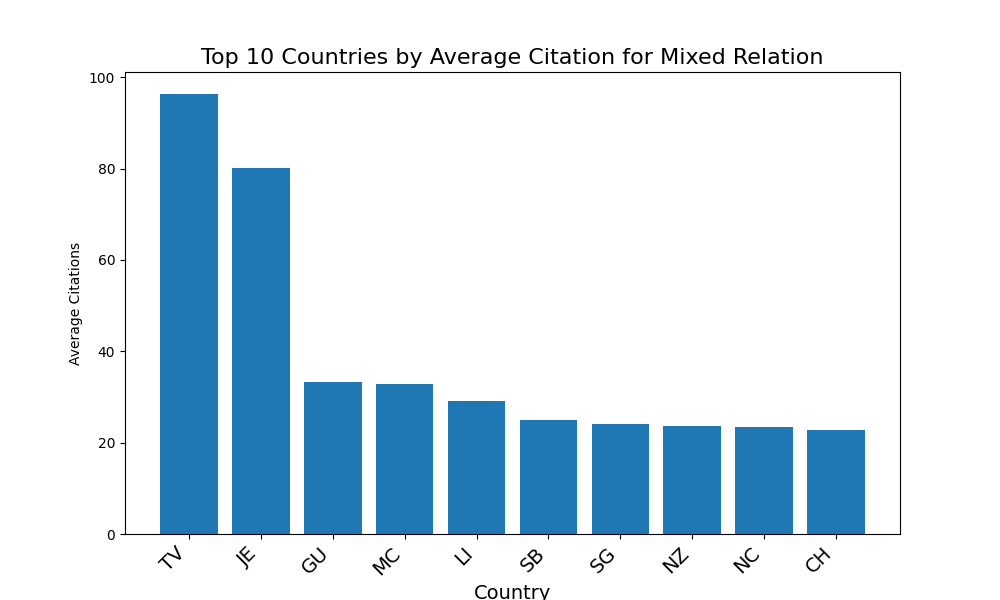
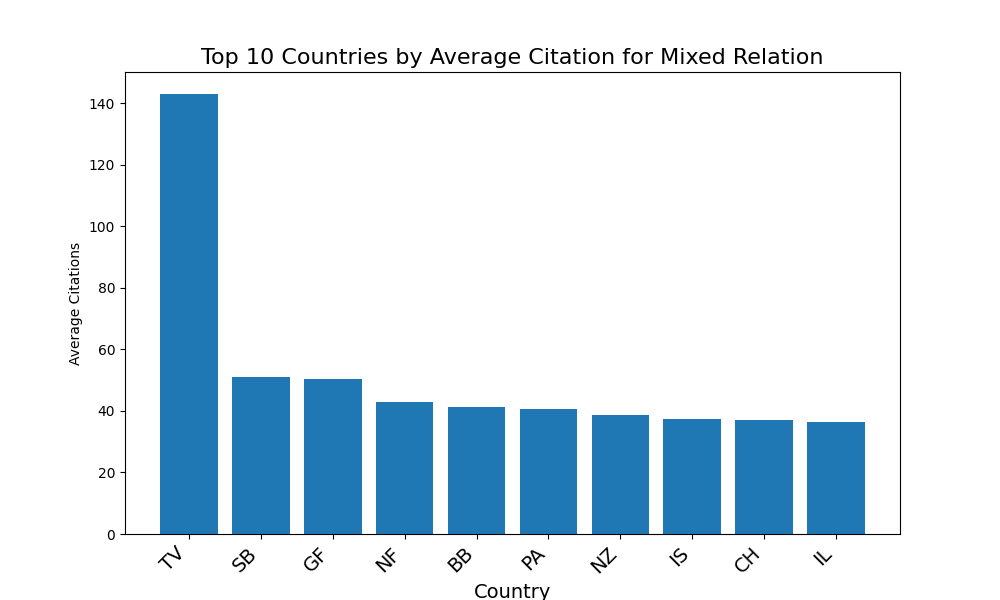
new tests

diff --git a/paper2.py b/paper2.py
@@ -234,12 +234,14 @@ result_by_collaborators = {
     "non_retracted_count": [],
     "percentage_retracted": [],
 }
+collaborators_citations = defaultdict(list)
 total_by_type = defaultdict(int)
 
 # Iterate through the DataFrame rows with tqdm
 for row in tqdm(new_df.itertuples(), total=len(new_df), desc="Counting Collaborators"):
     countries = literal_eval(row.countries)
     is_retracted = row.is_retracted
+    citations = row.citations
 
     # Count the number of collaborators
     num_collaborators = len(countries)
@@ -255,6 +257,14 @@ for row in tqdm(new_df.itertuples(), total=len(new_df), desc="Counting Collabora
         result_by_collaborators["retracted_count"][index] += 1
     else:
         result_by_collaborators["non_retracted_count"][index] += 1
+    collaborators_citations[num_collaborators].append(citations)
+
+# Calculate mean citations by the number of collaborators
+mean_citations_by_collaborators = {}
+for num_collaborators, citations_list in collaborators_citations.items():
+    mean_citations_by_collaborators[num_collaborators] = sum(citations_list) / len(
+        citations_list
+    )
 
 # Filter data for collaborators up to 20
 filter_limit = 20
@@ -303,6 +313,25 @@ with open("results/correlation_results_for_collaborators.txt", "w") as f:
         f"{correlation_method} Correlation: r({len(df_filtered) - 2}) = {corr:.3f}, p = {p_value:.3f}\n"
     )
 
+
+mean_citations_df = pd.DataFrame(
+    mean_citations_by_collaborators.items(), columns=["Collaborators", "Mean_Citations"]
+)
+
+pearson_corr, pearson_p_value = stats.pearsonr(
+    mean_citations_df["Collaborators"], mean_citations_df["Mean_Citations"]
+)
+spearman_corr, spearman_p_value = stats.spearmanr(
+    mean_citations_df["Collaborators"], mean_citations_df["Mean_Citations"]
+)
+
+# Save results to a text file
+with open("results/citations_by_number_of_participants.txt", "w") as f:
+    f.write("Pearson correlation coefficient: {}\n".format(pearson_corr))
+    f.write("Pearson p-value: {}\n\n".format(pearson_p_value))
+    f.write("Spearman correlation coefficient: {}\n".format(spearman_corr))
+    f.write("Spearman p-value: {}\n".format(spearman_p_value))
+
 df_filtered = df_filtered[df_filtered["collaborators"] <= filter_limit]
 
 # Plotting
@@ -313,7 +342,9 @@ plt.title(
 )
 plt.xlabel("Number of Collaborators", fontsize=14)
 plt.ylabel("Percentage of Retraction", fontsize=14)
-plt.xticks(range(1, filter_limit + 1), fontsize=14)  # Set x-axis ticks to integer values
+plt.xticks(
+    range(1, filter_limit + 1), fontsize=14
+)  # Set x-axis ticks to integer values
 plt.grid(True)
 plt.savefig(f"results/lineplot_correlation_collaborators_retraction.png")
 plt.close()
@@ -416,7 +447,9 @@ for relation in new_df["relation"].unique():
     )
     plt.xlabel("Number of Collaborators", fontsize=14)
     plt.ylabel("Percentage of Retraction", fontsize=14)
-    plt.xticks(range(1, filter_limit + 1), fontsize=14)  # Set x-axis ticks to integer values
+    plt.xticks(
+        range(1, filter_limit + 1), fontsize=14
+    )  # Set x-axis ticks to integer values
     plt.grid(True)
     plt.savefig(f"results/lineplot_correlation_collaborators_retraction_{relation}.png")
     plt.close()
@@ -534,6 +567,22 @@ plt.close()
 bins = [0, 0.549, 0.699, 0.799, 1.0]
 labels = ["Low", "Medium", "High", "Very High"]
 new_df["hdi_class"] = pd.cut(new_df["mean_hdi"], bins=bins, labels=labels, right=False)
+
+hdi_row_counts = new_df.groupby("mean_hdi").size()
+
+# Calculate Pearson correlation coefficient
+pearson_corr, pearson_p_value = stats.spearmanr(
+    hdi_row_counts.index, hdi_row_counts.values
+)
+
+# Print correlation coefficient and p-value
+print("Spearman correlation coefficient:", pearson_corr)
+print("Spearman p-value:", pearson_p_value)
+
+# Save results to a text file
+with open("results/correlation_mean_hdi_row_counts.txt", "w") as f:
+    f.write("Pearson correlation coefficient: {}\n".format(pearson_corr))
+    f.write("Pearson p-value: {}\n".format(pearson_p_value))
 
 # Calculate average citations for each 'hdi_class' and 'relation'
 avg_citations = (
@@ -875,14 +924,14 @@ plt.legend(title="Relation", loc="upper right")
 plt.savefig("results/barplot_institution_type_per_relation.png")
 plt.close()"""
 
-mixed_df = new_df[new_df["relation"] == "Other Countries"]
+mixed_df = new_df[new_df["relation"] == "Mixed"]
 
 country_counts = {}
 country_citations = {}
 for row in tqdm(
     mixed_df.itertuples(),
     total=len(mixed_df),
-    desc="Counting Countries for Other Countries Relation",
+    desc="Counting Countries for Mixed Relation",
 ):
     countries = set(literal_eval(row.countries))
     for country in countries:

diff --git a/temporal.py b/temporal.py
@@ -171,7 +171,7 @@ ax.set_title(f"Number of collaborations between Other Countries")
 plt.savefig(f"results/map_number_of_collaborations_other_countries.png")
 plt.show()
 plt.close()"""
-
+"""
 concept_colors = {
     "Physics": "red",
     "Artificial intelligence": "blue",
@@ -307,3 +307,95 @@ plot_top_concepts_by_year(
 plot_top_concepts_by_year(
     other_df, "Most frequent Concepts in Other Countries colaborations by Year"
 )
+"""
+
+import pandas as pd
+import pycountry
+
+# Read the first DataFrame
+df_without_collabs = pd.read_csv("results/all_countries_other_countries_relation.csv")
+
+# Read the second DataFrame
+df_with_collabs = pd.read_csv("results/all_countries_mixed_relation.csv")
+
+
+# Function to convert ISO2 country code to country name
+def iso2_to_country_name(iso2_code):
+    try:
+        country = pycountry.countries.get(alpha_2=str(iso2_code))
+        return country.name
+    except AttributeError:
+        return iso2_code
+
+
+# Apply the function to convert ISO2 country codes to country names
+df_with_collabs["Country"] = df_with_collabs["Country"].apply(iso2_to_country_name)
+df_without_collabs["Country"] = df_without_collabs["Country"].apply(
+    iso2_to_country_name
+)
+
+# Rename columns
+df_with_collabs = df_with_collabs.rename(
+    columns={
+        "Count": "Number of publications",
+        "Average Citations": "Average citations",
+    }
+)
+df_without_collabs = df_without_collabs.rename(
+    columns={
+        "Count": "Number of publications",
+        "Average Citations": "Average citations",
+    }
+)
+
+# Merge the two DataFrames on the 'Country' column
+merged_df = pd.merge(
+    df_with_collabs,
+    df_without_collabs,
+    on="Country",
+    suffixes=("_with_collabs", "_without_collabs"),
+)
+
+# Sort by 'Number of publications' without collaborations with CN-EU-US
+merged_df = merged_df.sort_values(
+    by="Number of publications_with_collabs", ascending=False
+)
+
+# Select top 40 rows
+merged_df = merged_df.head(50)
+
+# Create a new DataFrame with desired columns
+final_df = merged_df[
+    [
+        "Country",
+        "Number of publications_with_collabs",
+        "Number of publications_without_collabs",
+        "Average citations_with_collabs",
+        "Average citations_without_collabs",
+    ]
+]
+
+# Save DataFrame to LaTeX format with legend
+with open("results/combined_table.tex", "w") as f:
+    f.write("\\begin{table}[ht]\n")
+    f.write("\\centering\n")
+    f.write("\\begin{tabular}{lcccc}\n")
+    f.write("\\hline\n")
+    f.write("Country & [1] & [2] & [3] & [4]  \\\n")
+    f.write("\\hline\n")
+    for _, row in final_df.iterrows():
+        f.write(
+            "{} & {:.2f} & {:.2f} & {:.2f} & {:.2f}\\\\\n".format(
+                row["Country"],
+                row["Number of publications_with_collabs"],
+                row["Number of publications_without_collabs"],
+                row["Average citations_with_collabs"],
+                row["Average citations_without_collabs"],
+            )
+        )
+    f.write("\\hline\n")
+    f.write("\\end{tabular}\n")
+    f.write(
+        "\caption{Legend: [1] = Number of publications with CN-EU-US, [2] = Number of publications without CN-EU-US, [3] = Average citations with CN-EU-US, [4] = Average citations without CN-EU-US}\n"
+    )
+    f.write("\\end{table}\n")

diff --git a/results/combined_table.tex b/results/combined_table.tex
@@ -1,0 +1,60 @@
+\begin{table}[ht]
+\centering
+\begin{tabular}{lcccc}
+\hline
+Country & [1] & [2] & [3] & [4]  \
+\hline
+Canada & 238240.00 & 60926.00 & 35.52 & 20.23\\
+Australia & 182731.00 & 55763.00 & 34.70 & 21.97\\
+Japan & 151262.00 & 45944.00 & 23.72 & 13.57\\
+Switzerland & 130752.00 & 16715.00 & 37.03 & 22.86\\
+Korea, Republic of & 89950.00 & 27261.00 & 25.44 & 18.13\\
+India & 84754.00 & 41665.00 & 21.21 & 15.72\\
+Russian Federation & 75333.00 & 24275.00 & 20.54 & 7.86\\
+Brazil & 74806.00 & 19320.00 & 20.55 & 14.23\\
+Singapore & 64718.00 & 15827.00 & 32.92 & 24.15\\
+Israel & 59370.00 & 8334.00 & 36.35 & 22.16\\
+Norway & 53537.00 & 9702.00 & 28.89 & 18.35\\
+Mexico & 38757.00 & 10615.00 & 20.22 & 11.89\\
+Iran, Islamic Republic of & 34984.00 & 20335.00 & 22.58 & 18.76\\
+Turkey & 33422.00 & 10929.00 & 23.08 & 16.27\\
+New Zealand & 28928.00 & 13104.00 & 38.82 & 23.62\\
+Saudi Arabia & 26538.00 & 26260.00 & 30.35 & 15.61\\
+South Africa & 26303.00 & 11270.00 & 28.27 & 14.29\\
+Chile & 22190.00 & 6855.00 & 26.96 & 14.38\\
+Pakistan & 21702.00 & 15061.00 & 19.17 & 15.00\\
+Malaysia & 19442.00 & 31189.00 & 21.27 & 14.42\\
+Ukraine & 18817.00 & 6587.00 & 11.06 & 5.13\\
+Argentina & 17829.00 & 5378.00 & 24.62 & 13.83\\
+Egypt & 17579.00 & 14509.00 & 20.16 & 15.06\\
+Colombia & 13788.00 & 6240.00 & 19.96 & 9.67\\
+Tunisia & 13153.00 & 4802.00 & 11.82 & 9.90\\
+Algeria & 12663.00 & 3622.00 & 12.57 & 10.77\\
+Thailand & 12357.00 & 7766.00 & 21.99 & 11.68\\
+Viet Nam & 12210.00 & 8519.00 & 20.62 & 15.00\\
+United Arab Emirates & 11335.00 & 9123.00 & 20.56 & 14.82\\
+Serbia & 10088.00 & 3266.00 & 14.68 & 11.05\\
+Morocco & 9703.00 & 2222.00 & 13.97 & 10.77\\
+Indonesia & 9454.00 & 13443.00 & 15.11 & 7.22\\
+Qatar & 8864.00 & 4150.00 & 24.54 & 16.64\\
+Bangladesh & 7115.00 & 6662.00 & 17.58 & 13.92\\
+Lebanon & 6561.00 & 1902.00 & 23.35 & 13.10\\
+Nigeria & 5604.00 & 5558.00 & 17.31 & 10.17\\
+Ecuador & 5227.00 & 2328.00 & 14.82 & 5.71\\
+Jordan & 5131.00 & 4208.00 & 19.88 & 16.83\\
+Kenya & 5037.00 & 1727.00 & 31.65 & 14.20\\
+Philippines & 4545.00 & 2090.00 & 20.64 & 15.57\\
+Ghana & 4493.00 & 1510.00 & 19.17 & 11.41\\
+Iceland & 4098.00 & 627.00 & 37.48 & 16.28\\
+Puerto Rico & 4008.00 & 655.00 & 29.34 & 10.35\\
+Iraq & 3961.00 & 4570.00 & 15.43 & 12.86\\
+Venezuela, Bolivarian Republic of & 3831.00 & 1626.00 & 24.49 & 9.15\\
+Peru & 3744.00 & 2061.00 & 21.94 & 6.81\\
+Belarus & 3561.00 & 2344.00 & 13.08 & 5.49\\
+Cuba & 3268.00 & 2476.00 & 16.70 & 7.36\\
+Kazakhstan & 3023.00 & 2994.00 & 12.32 & 6.56\\
+Ethiopia & 2980.00 & 2009.00 & 24.35 & 11.86\\
+\hline
+\end{tabular}
+\caption{Legend: [1] = Number of publications with CN-EU-US, [2] = Number of publications without CN-EU-US, [3] = Average citations with CN-EU-US, [4] = Average citations without CN-EU-US}
+\end{table}
